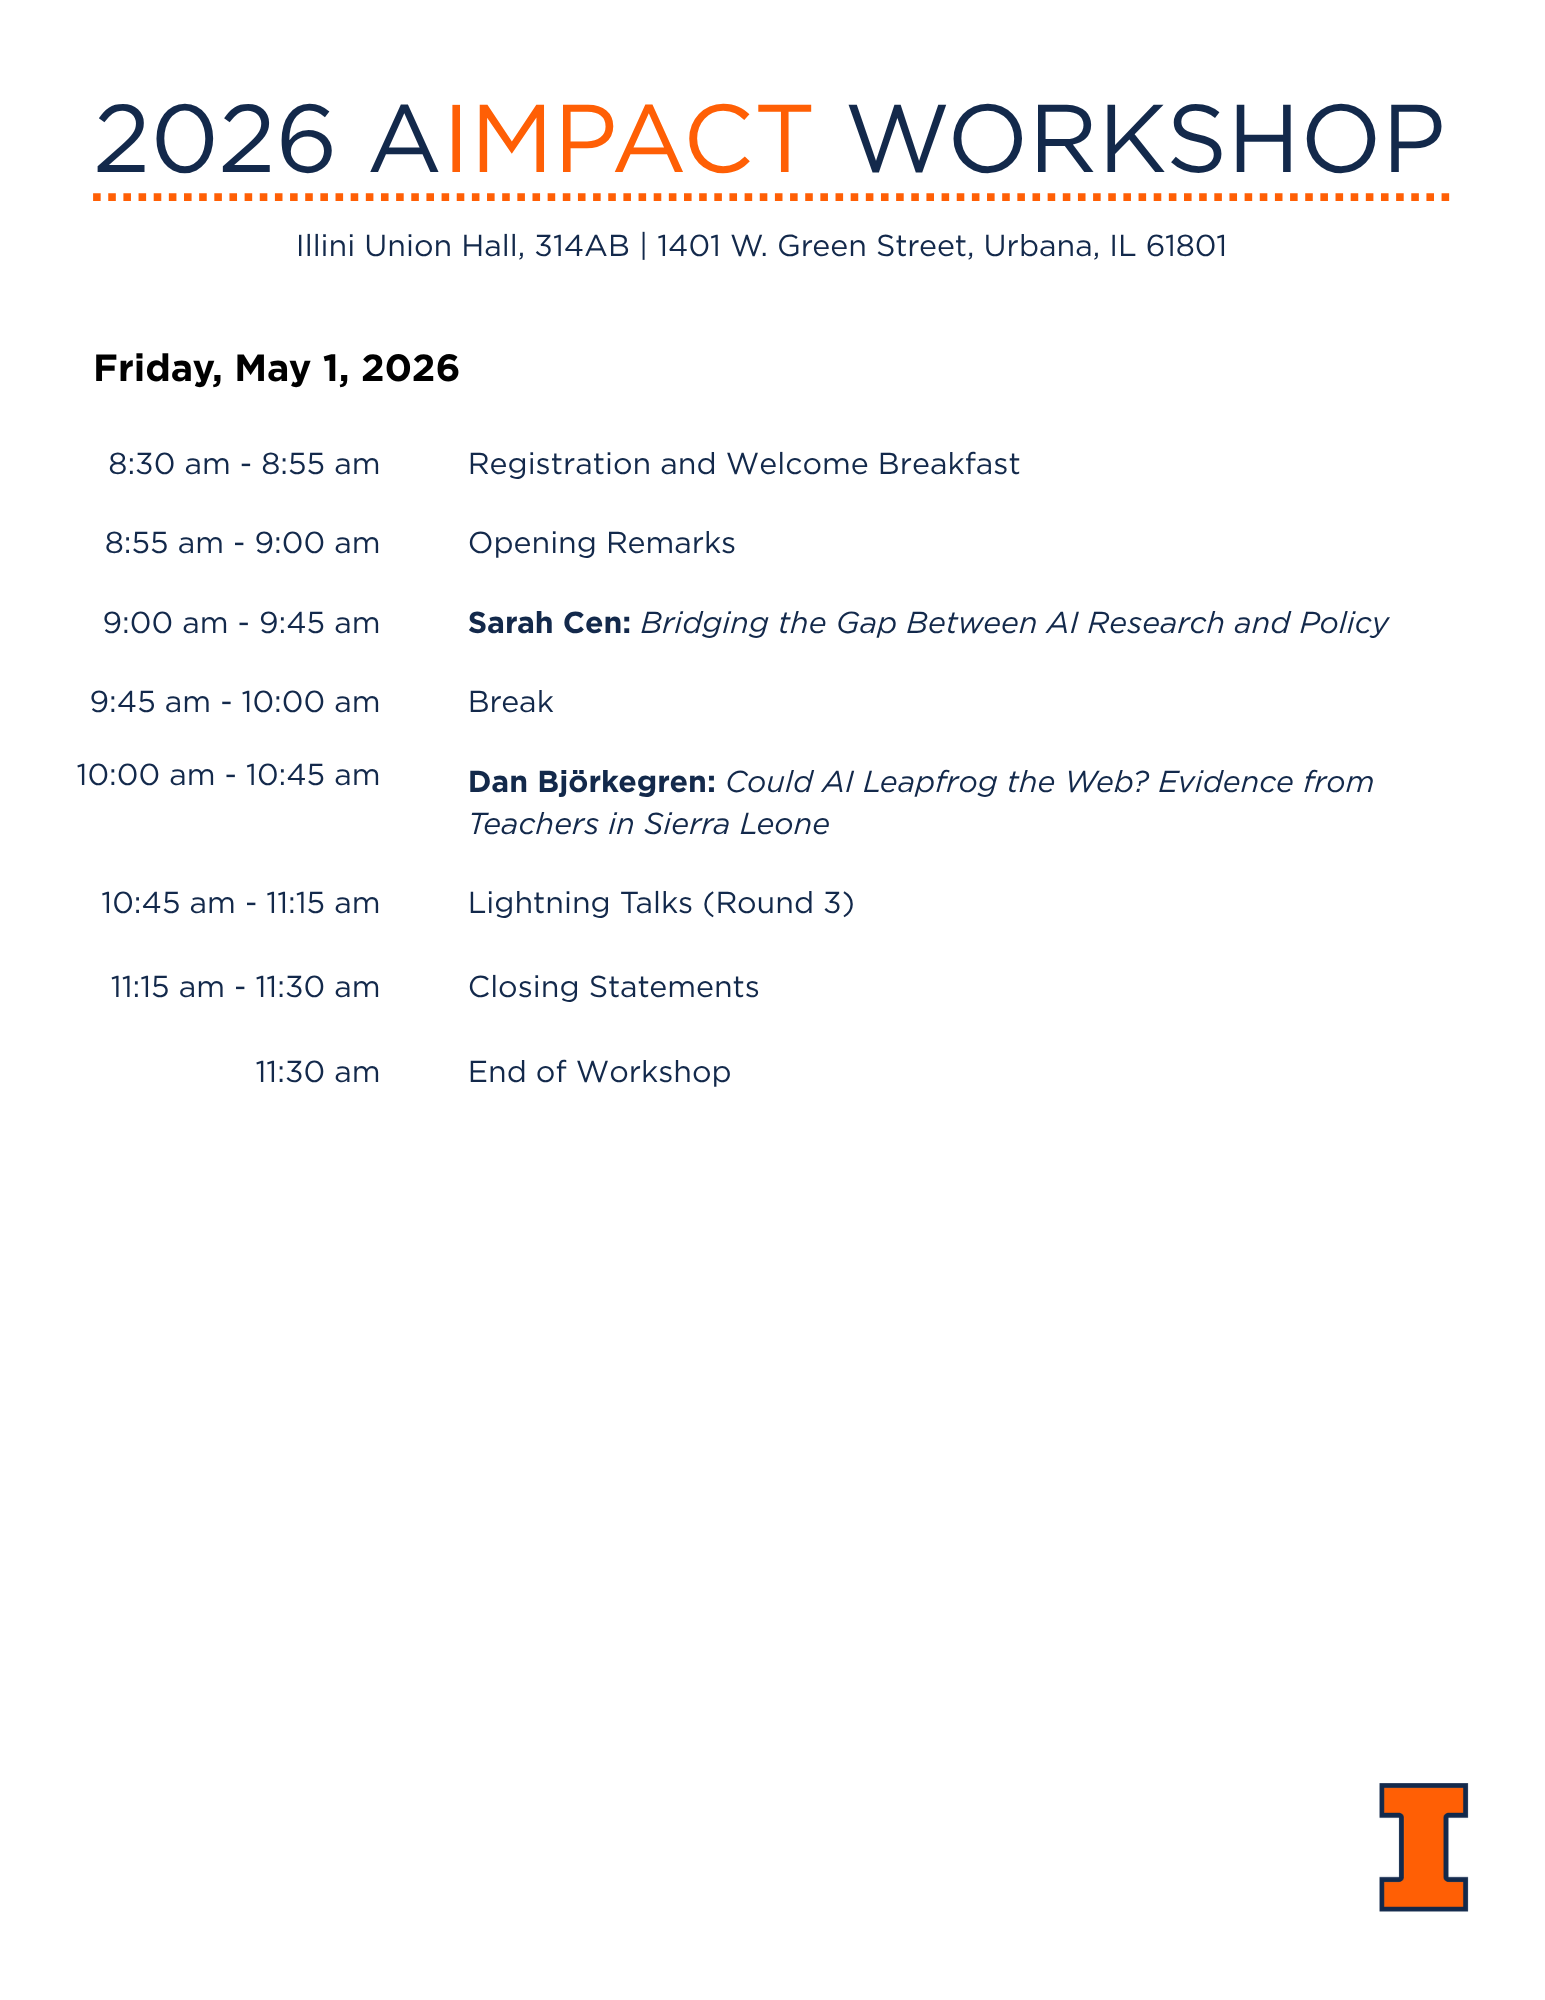
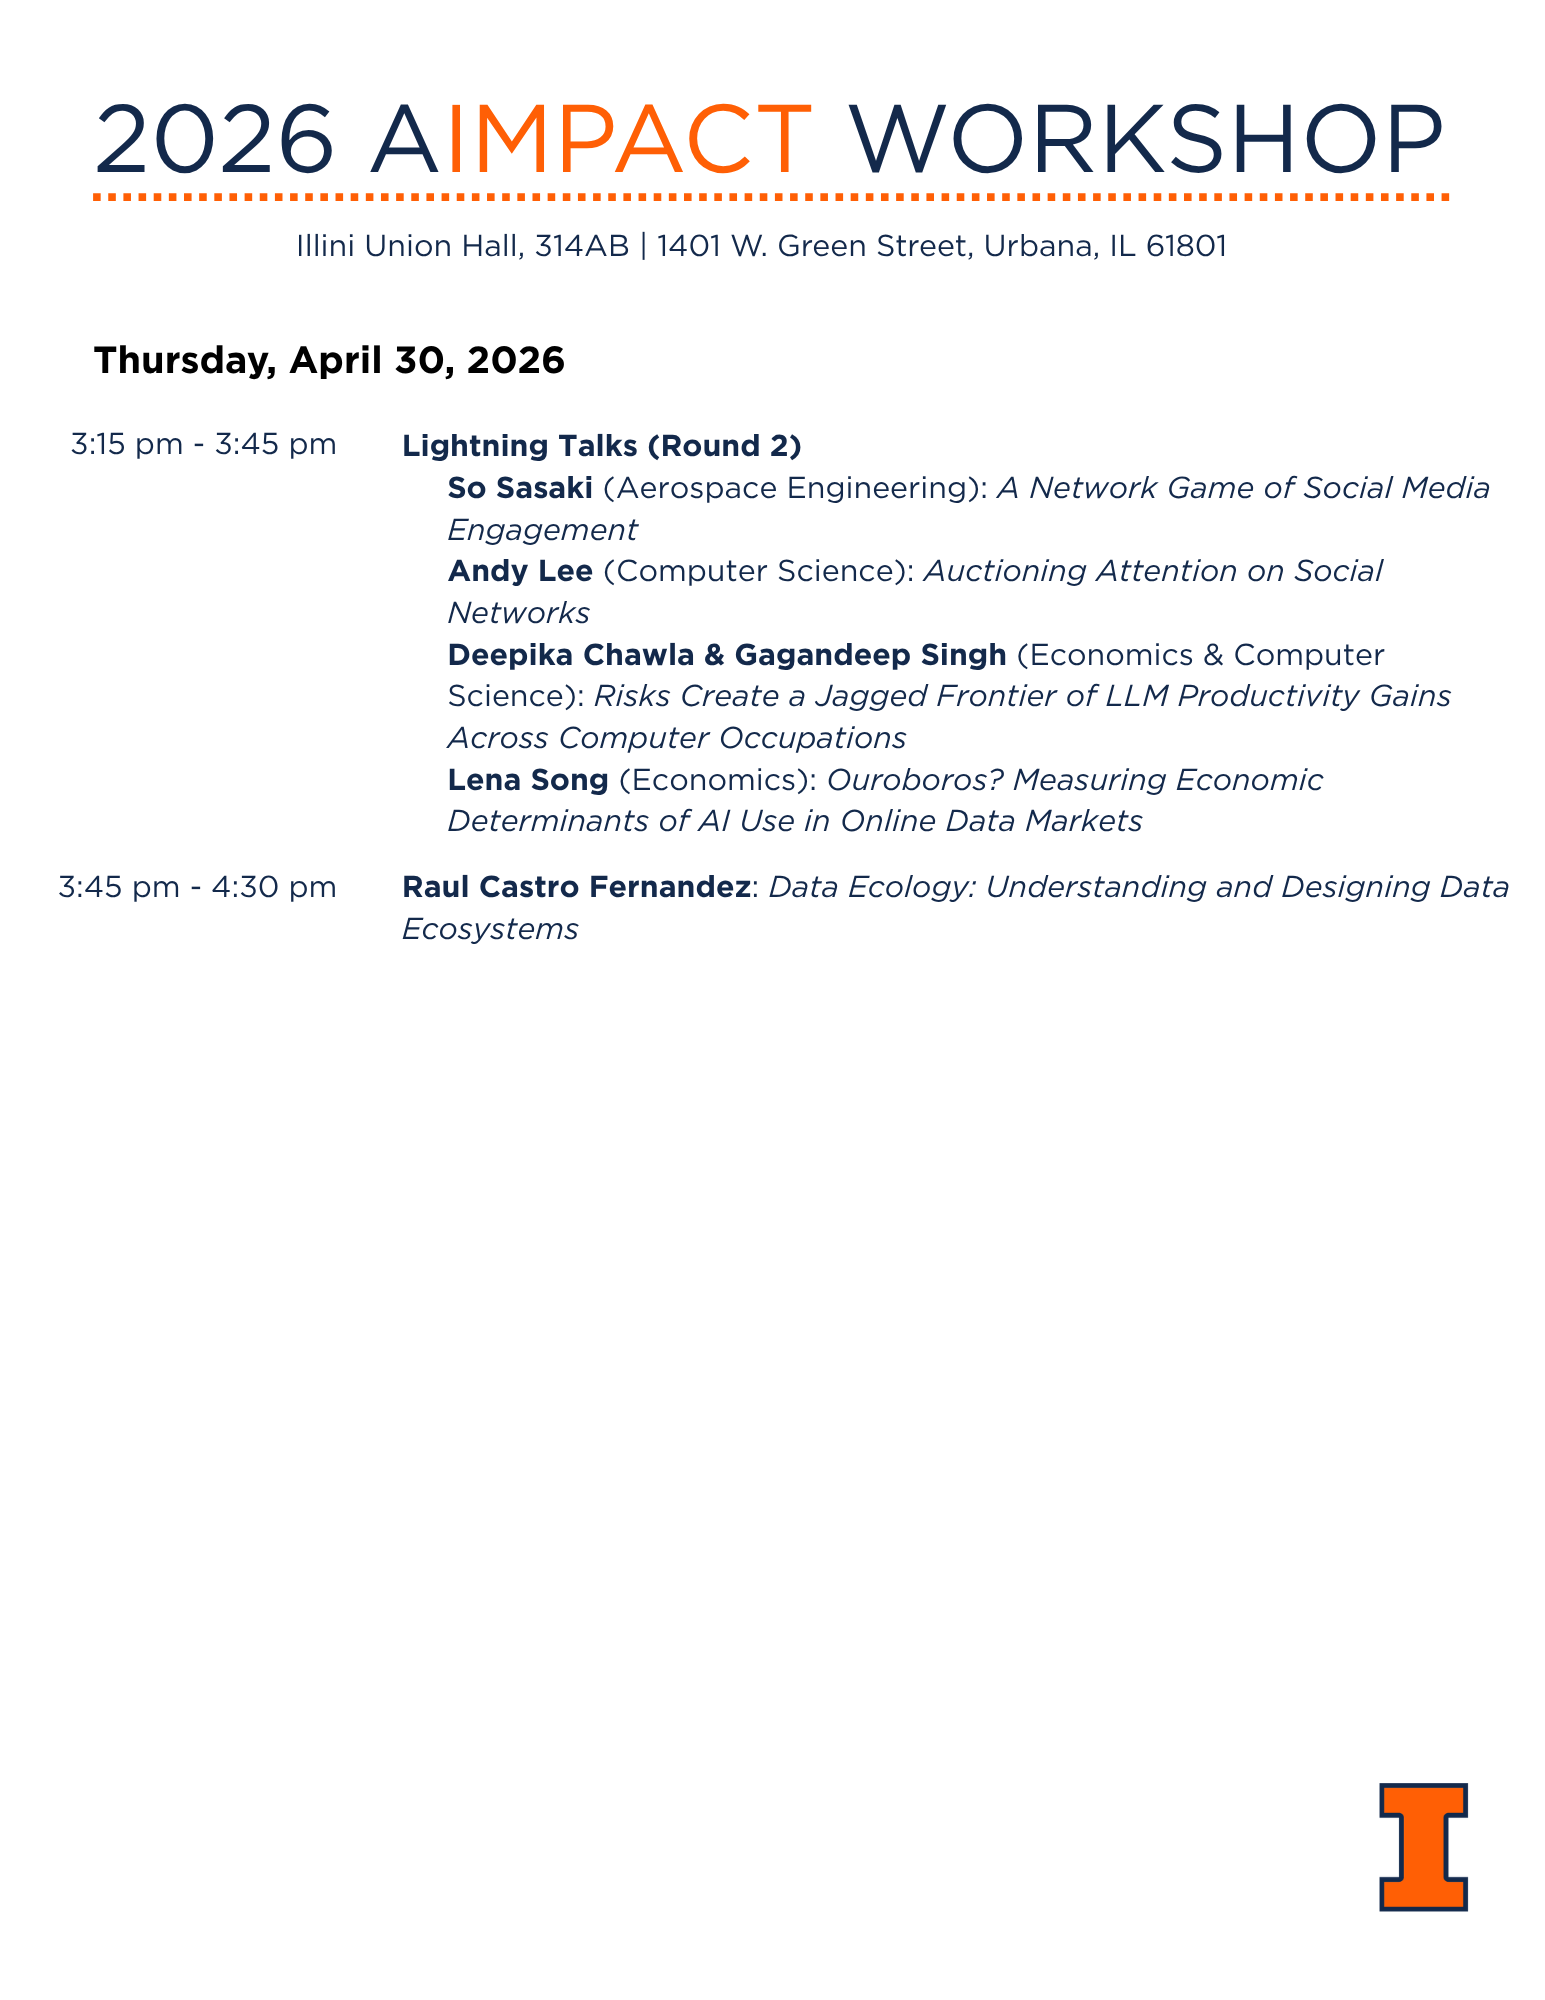
Added updated workshop schedule

diff --git a/events/aimpact-workshop-2026.html b/events/aimpact-workshop-2026.html
@@ -101,6 +101,13 @@
 							</span>
 						</div>
 					</div>
+					<div class="row">
+						<div class="col-12">
+							<span class="image fit">
+								<img src="../images/AImpact Workshop Schedule 3.png" alt="AImpact Workshop Schedule Day 2" style="width: 75%; height: auto; display: block; margin: 0 auto;" />
+							</span>
+						</div>
+					</div>
 				</div>
 			</div>
 
